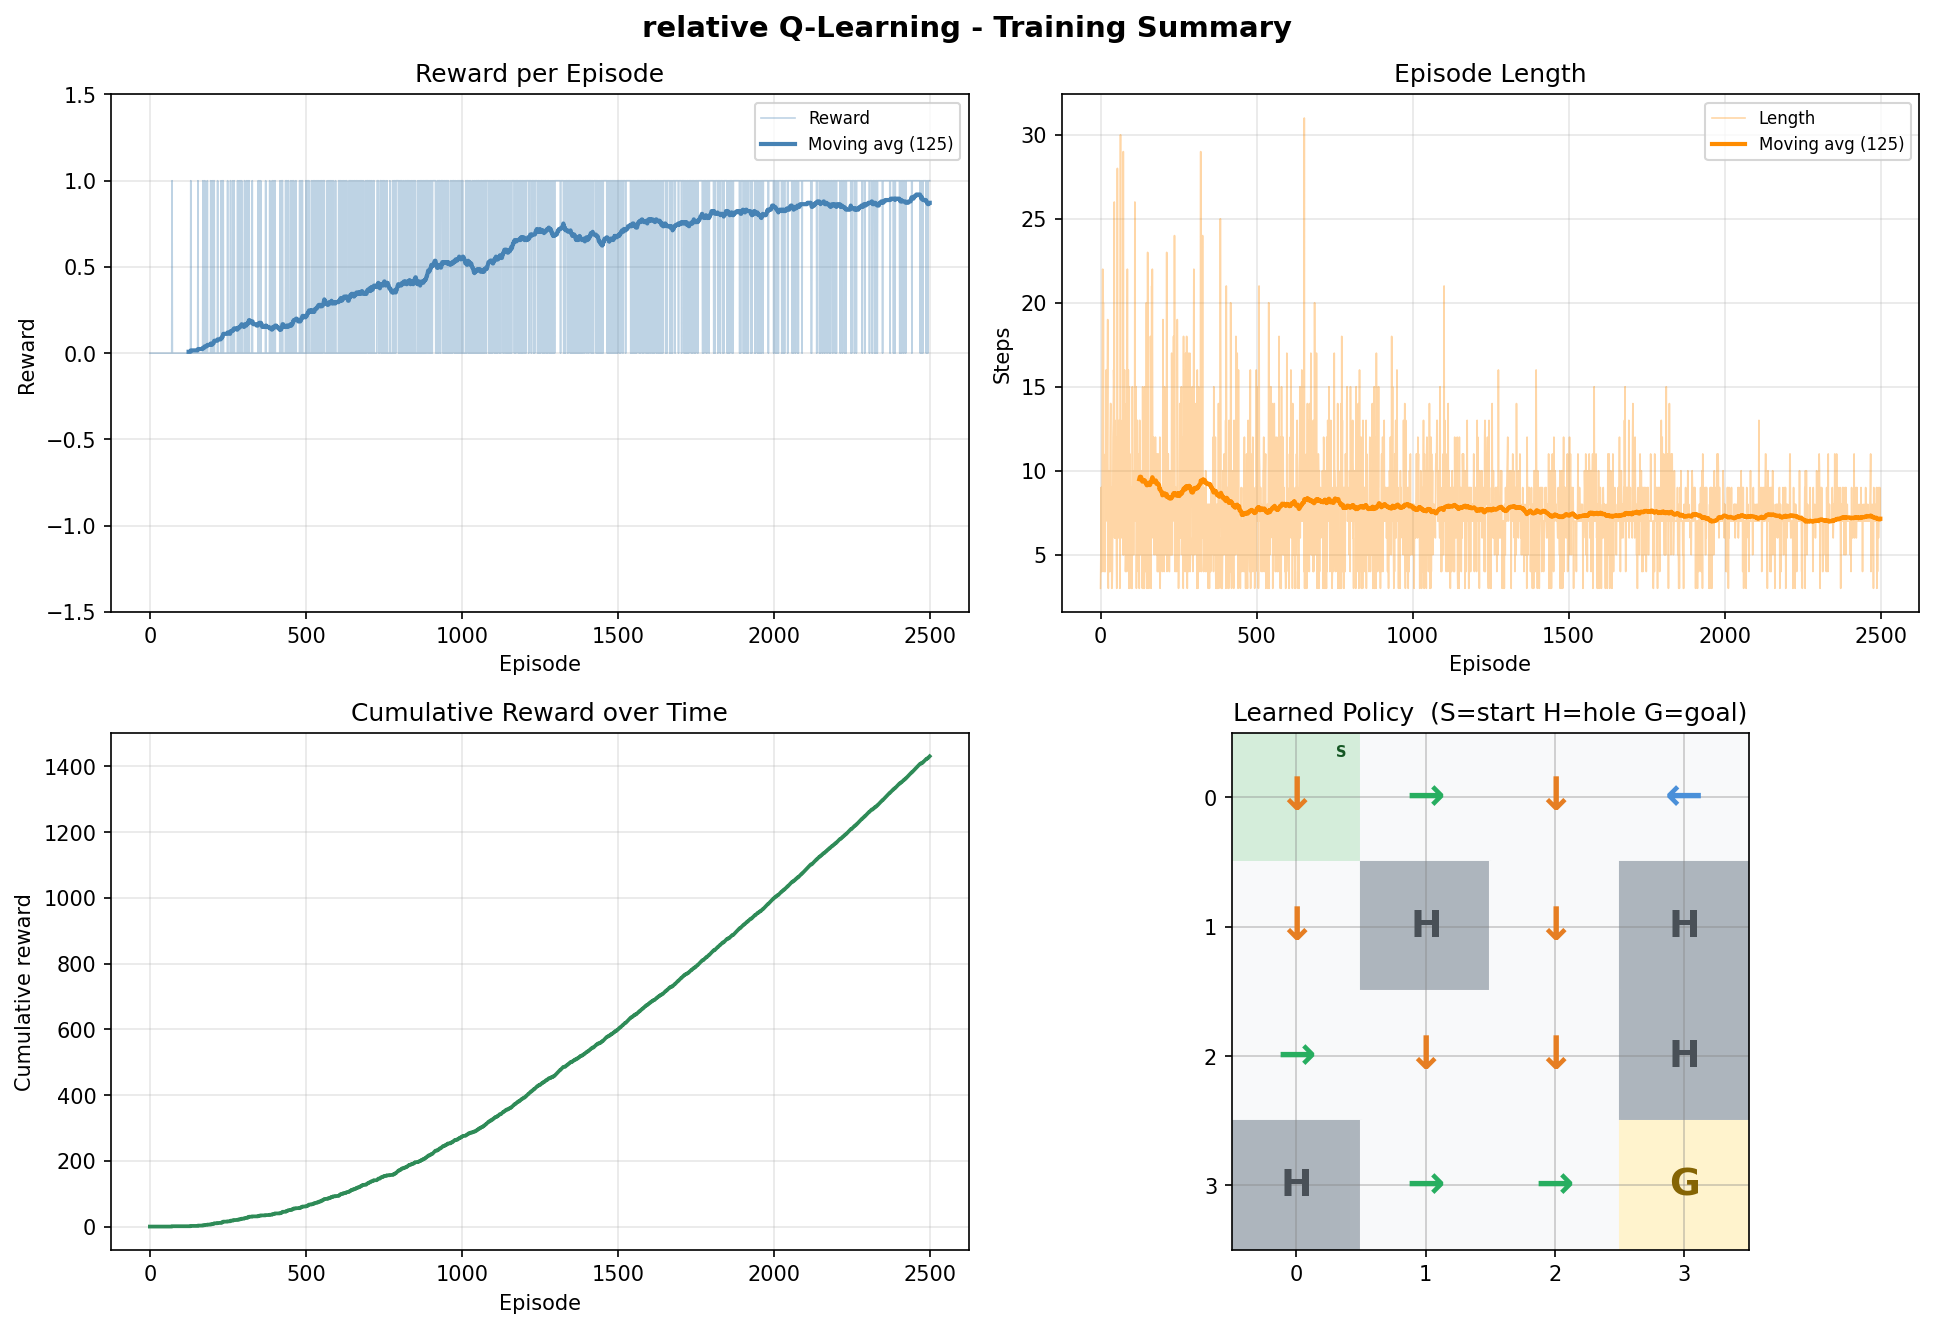
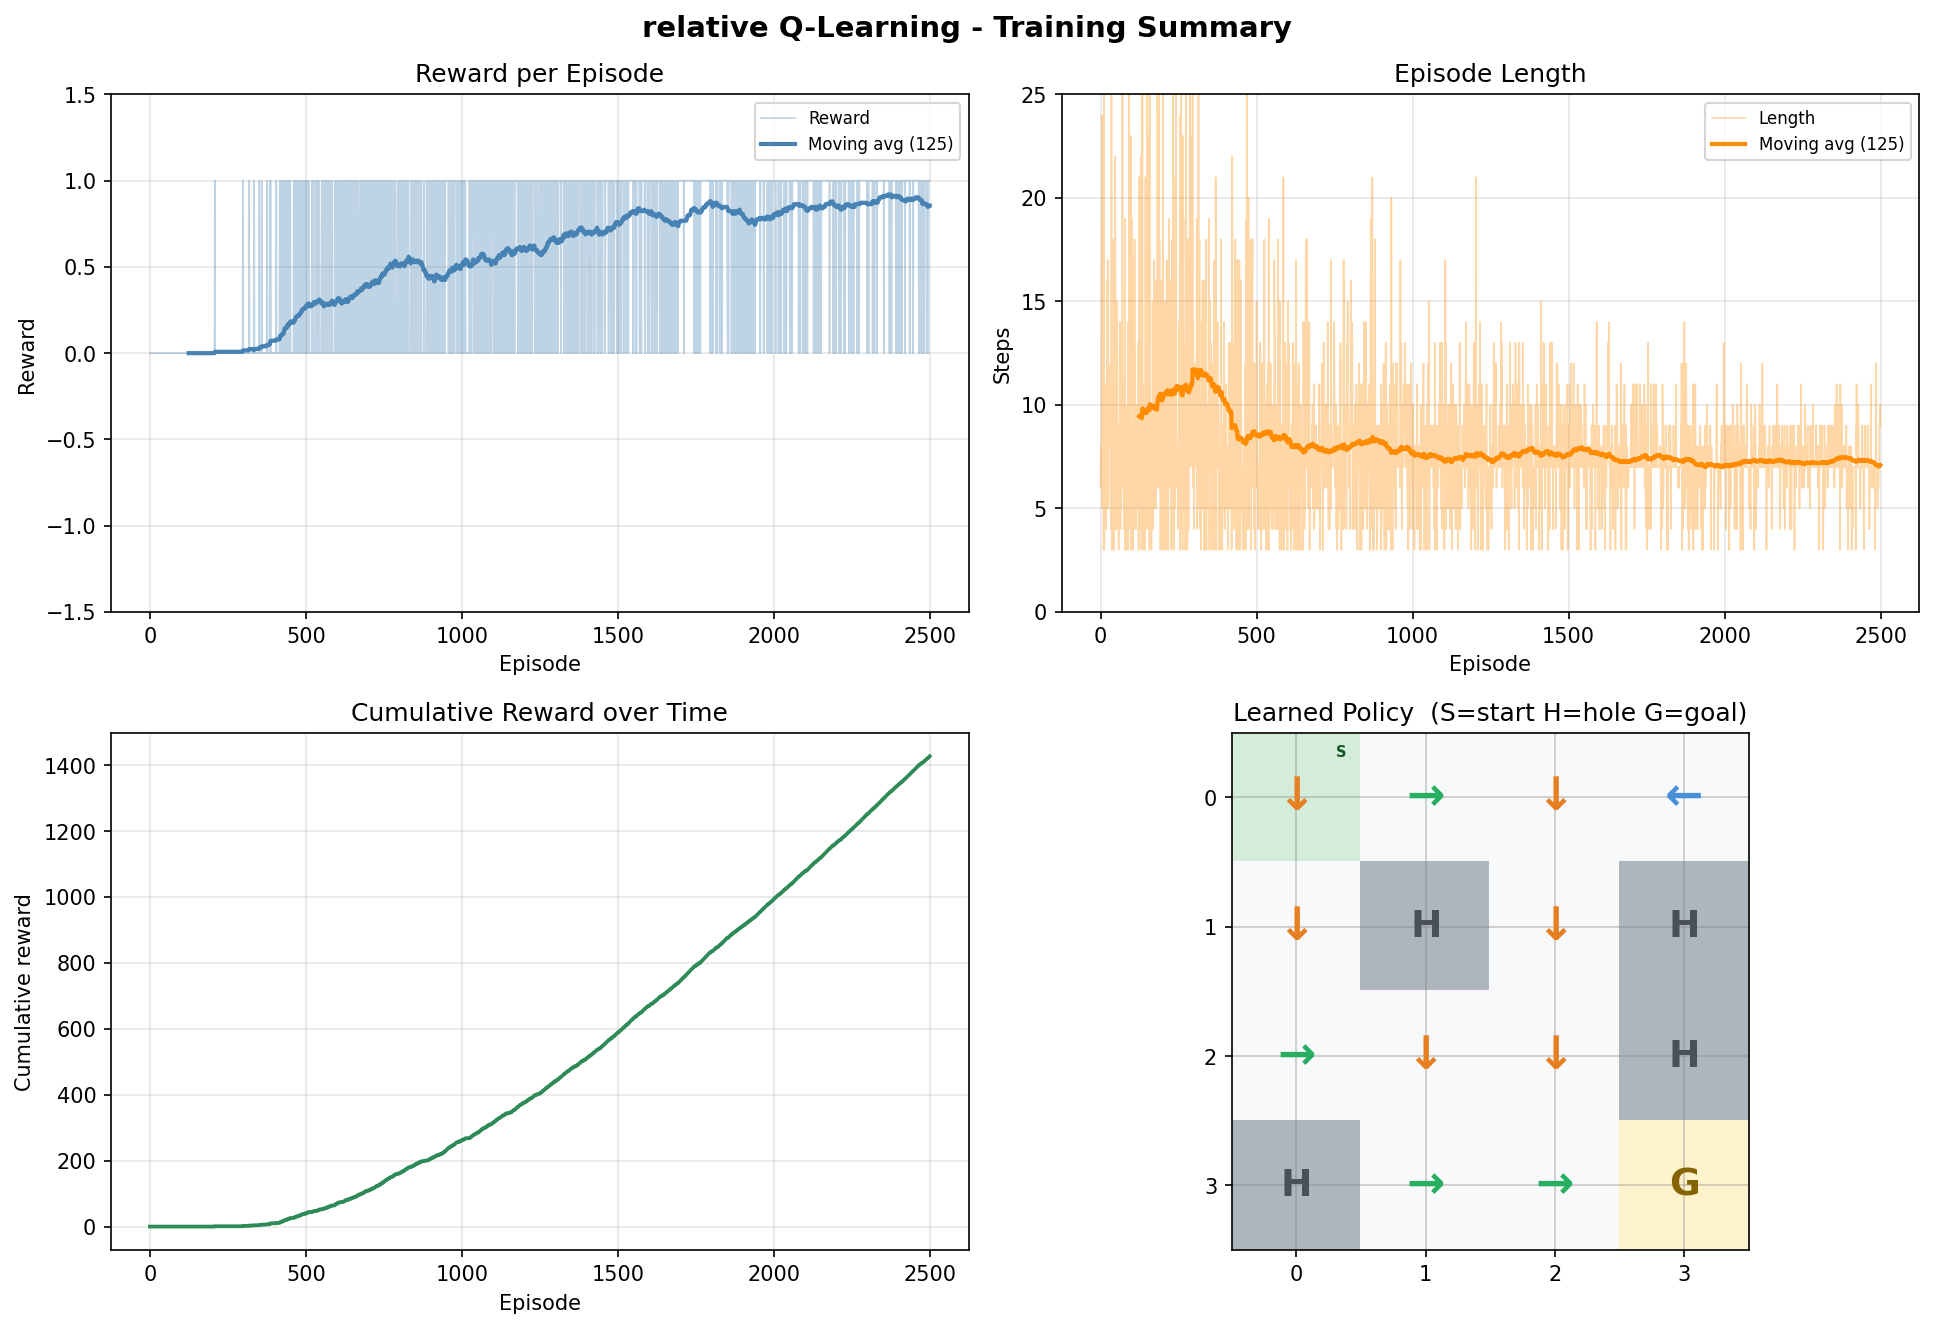
minor adjustments

diff --git a/plus_minus_q_learning/main.py b/plus_minus_q_learning/main.py
@@ -8,10 +8,12 @@ import agent
 
 if __name__ == "__main__":
 
+    """change update mode here"""
     mode = "relative" # "std", "std_punish", "opposite", "relative", "relative_punish"
 
-    if mode in ["std", "relative"]:
-        reward_schedule = (1, 0, 0) #goal, hole, step/frozen
+    """change rewards/punishments here"""
+    if mode in ["std", "relative"]: # the positive cases
+        reward_schedule = (1, 0, 0) # goal, hole, step/frozen
     else:
         reward_schedule = (-1, 0, 0)
 
@@ -24,6 +26,7 @@ if __name__ == "__main__":
                    **env_kwargs
                 )
     
+    """change agent variables here"""
     agent = agent.QLearningAgent(env,
                                  mode = mode, 
                                  training_episodes=2500,
@@ -40,7 +43,7 @@ if __name__ == "__main__":
  
     agent.train()
     
+    # plots
     agent.plot_training(path=f"./plus_minus_q_learning/training_summary_{agent.mode}.png", grid_size=4)
+    # gif of a greedy episode
     agent.record_gif(env_id, env_kwargs, path=f"./plus_minus_q_learning/agent_episode_{agent.mode}.gif", fps=3)
-
-env = gym.make(env_id, render_mode="rgb_array")

diff --git a/plus_minus_q_learning/agent.py b/plus_minus_q_learning/agent.py
@@ -203,6 +203,7 @@ class QLearningAgent():
  
         # subplot 2
         ax = axes[0, 1]
+        ax.set_ylim(0, 25)
         ax.plot(eps_x, lengths, alpha=0.35, color='darkorange', linewidth=0.8, label='Length')
         ax.plot(ma_x, moving_avg(lengths, window), color='darkorange', linewidth=2,
                 label=f'Moving avg ({window})')
